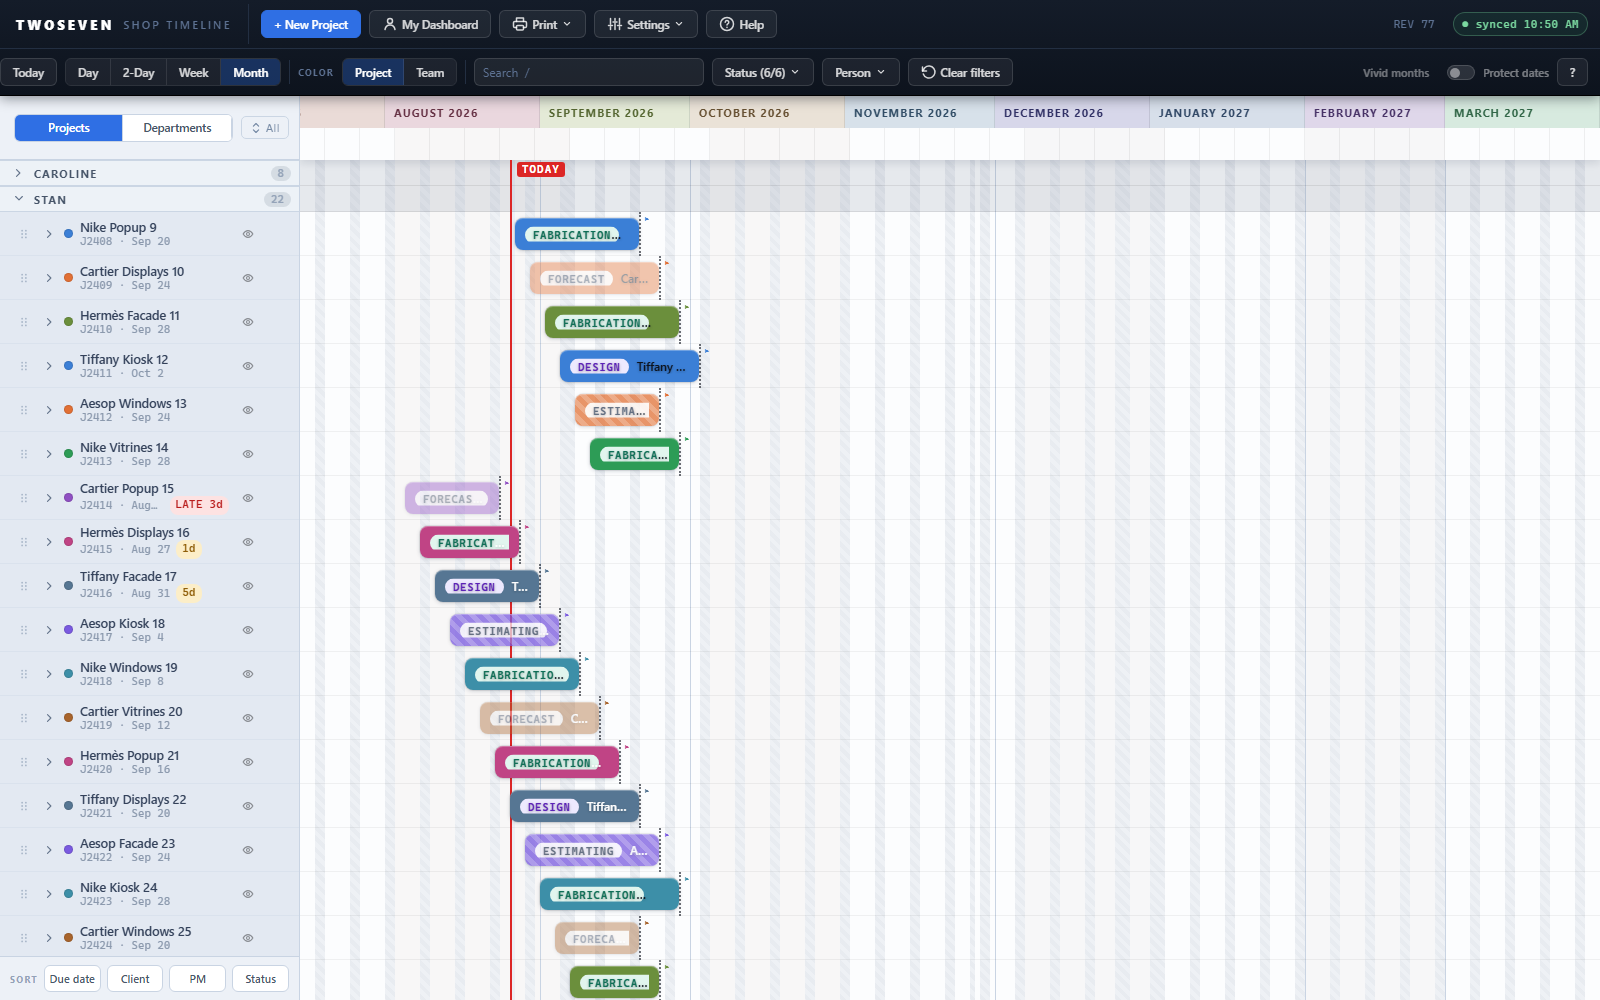
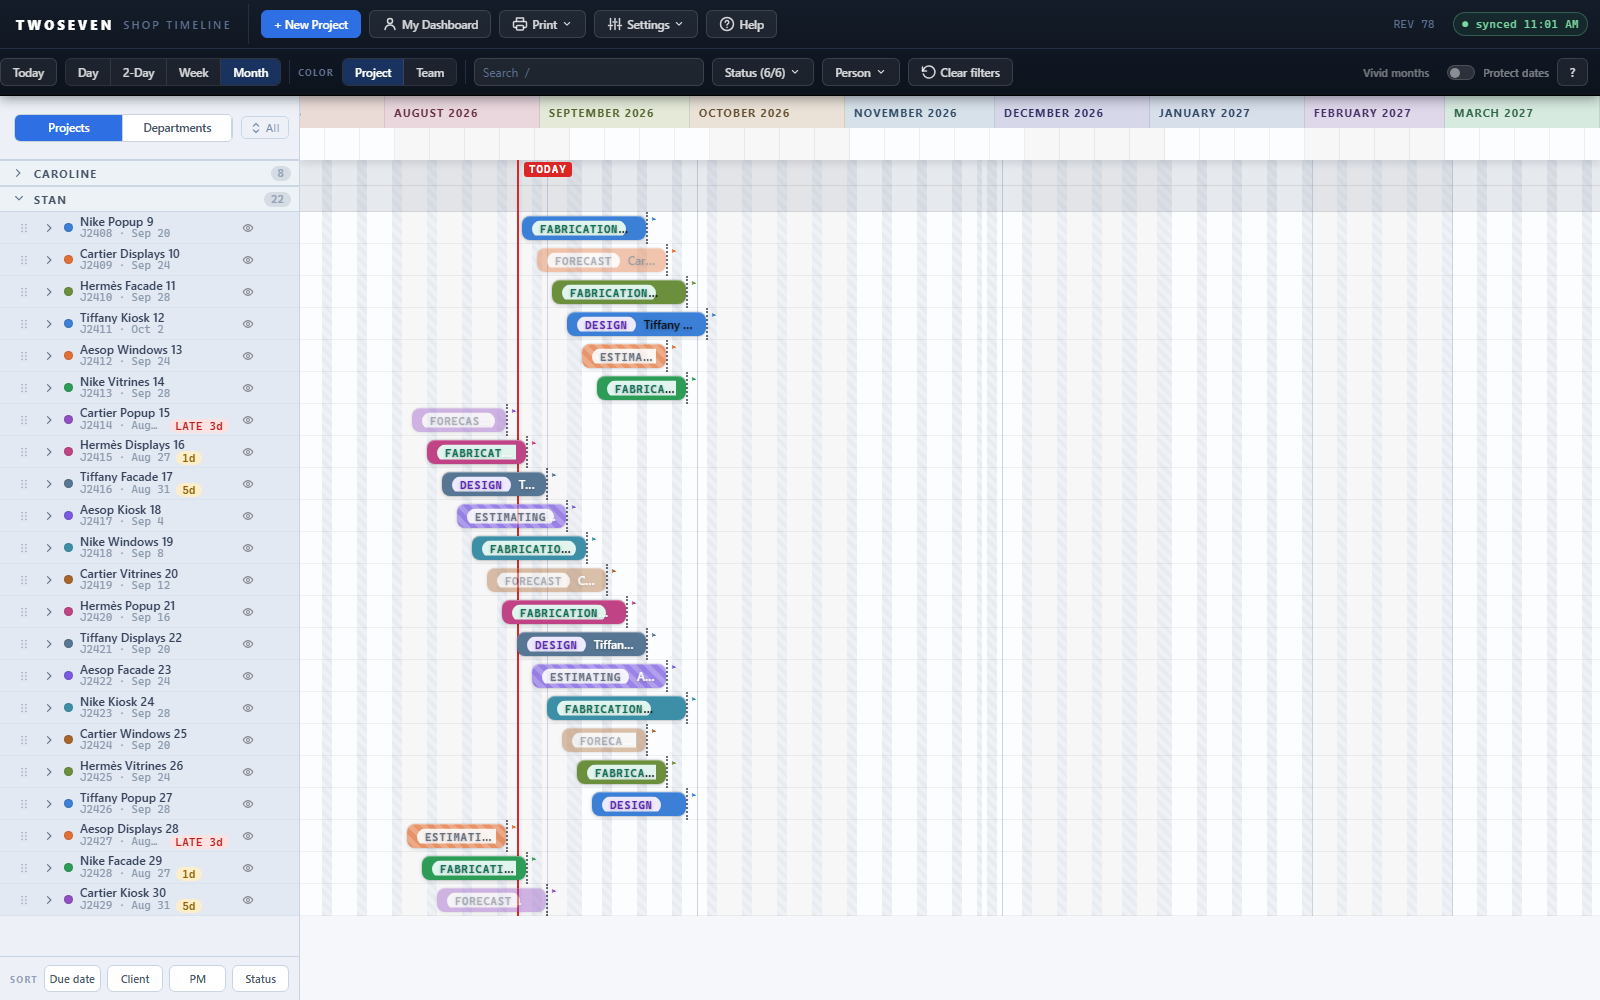
REV78: three density levels — Comfortable 56 / Snug 44 / Compact 32 (owner ruling)
Supersedes both the merged two-level 44/32 cut (REV77, PR #19) and the
interim 56/44 adjust. Comfortable keeps the pre-B5 default; the old
spec values become Snug (bar 32, gutter 12) and Compact (bar 24,
gutter 8 — still >=24px hit targets). The Settings item cycles the
three; DENSITIES drives the JS lane math and the body.snug/.compact
--row-h overrides. Design-Language §4 amended; TODO §7 entry settled
in place; test46 drifts all three levels; test-b5 walks the cycle;
Snug screenshot added.

Changed region(s): [[0.25, 0.155, 0.4688, 1.0], [0.0312, 0.217, 0.1562, 0.961]]

diff --git a/index.html b/index.html
@@ -19,11 +19,12 @@
   --r-s:5px; --r-m:8px; --r-l:14px;
   /* type scale — Design-Language §3; --fs-micro is decorative eyebrows ONLY */
   --fs-title:15px; --fs-body:13px; --fs-label:11.5px; --fs-fine:11px; --fs-micro:9px;
-  --row-h:56px; /* Comfortable row height — §4 (owner adjustment 2026-08-26: 56/44, not 44/32) */
+  --row-h:56px; /* Comfortable row height — §4 (three densities: 56/44/32, owner 2026-08-26) */
 }
-/* B5 density: Compact rows (§4). The token drives real geometry — the JS lane math
-   (rowH) mirrors it at both values; tests/test46.js asserts they stay in step. */
-body.compact{--row-h:44px}
+/* B5 density: Snug and Compact rows (§4). The token drives real geometry — the JS lane
+   math (rowH) mirrors it at every level; tests/test46.js asserts they stay in step. */
+body.snug{--row-h:44px}
+body.compact{--row-h:32px}
 /* ============ RESET ============ */
 *,*::before,*::after{box-sizing:border-box;margin:0;padding:0}
 html,body{height:100%;overflow:hidden;font-family:var(--sans);font-size:var(--fs-body);color:var(--txt);background:var(--paper)}
@@ -159,8 +160,12 @@ body.me-dock-on #me-dock{display:flex;flex-direction:column;position:fixed;left:
 .sb-chip{font-family:var(--mono);font-size:var(--fs-fine);font-weight:600;letter-spacing:.03em;padding:1.5px 6px;border-radius:8px;flex-shrink:0;line-height:1.5}
 .sb-chip.late{background:#FDE2E2;color:#B91C1C}
 .sb-chip.soon{background:#FCEEC8;color:#8F5E08}
-/* B5 Compact: the T5 two-line row keeps both lines, each single-line, tighter gap */
-body.compact .sb-2l{gap:0}
+/* B5 Snug/Compact: the T5 two-line row keeps both lines, each single-line; Compact's
+   32px rows also need tighter leading (nothing informational drops below 11px) */
+body.snug .sb-2l,body.compact .sb-2l{gap:0}
+body.compact .sb-2l .sb-name{font-size:12px;line-height:1.1}
+body.compact .sb-2l .sb-sub{line-height:1.1}
+body.compact .sb-chip{line-height:1.2;padding:.5px 6px}
 .sb-row.task-row{padding-left:32px;background:#F2F5FA}
 .sb-row.task-row .sb-name{font-weight:450;font-size:12px}
 .sb-row.dept-head{background:#D6DFEB;border-bottom:1px solid #C2CFDF;font-size:var(--fs-fine);font-weight:700;text-transform:uppercase;letter-spacing:.1em;color:#57687F;cursor:pointer}
@@ -1094,7 +1099,7 @@ body.vivid .cal-col.we{background:repeating-linear-gradient(45deg,rgba(100,116,1
       <div id="settings-menu" class="tb-menu hidden">
         <div class="sm-item" id="mi-people" title="Edit staff names, departments and time off">People &amp; Availability</div>
         <div class="sm-item" id="mi-clients" title="Edit the shared client list and job-code aliases">Clients</div>
-        <div class="sm-item" id="mi-density" title="Row height — Compact fits more of the schedule on one screen">Density: <b id="mi-density-v">Comfortable</b></div>
+        <div class="sm-item" id="mi-density" title="Row height — click to cycle Comfortable → Snug → Compact">Density: <b id="mi-density-v">Comfortable</b></div>
         <div class="sm-note">Shop Timeline · REV <span id="tb-rev-num"></span></div>
       </div>
     </div>
@@ -1326,25 +1331,26 @@ body.vivid .cal-col.we{background:repeating-linear-gradient(45deg,rgba(100,116,1
 <script src="msal-browser.min.js"></script>
 <script>
 'use strict';
-const APP_REV=77; // bump this ONE number on every release; used everywhere the rev shows up
+const APP_REV=78; // bump this ONE number on every release; used everywhere the rev shows up
 
 /* ===================== CONSTANTS ===================== */
 const SET_KEY ='shopTimelineSettings_v1';
 const PEOPLE_KEY='shopTimelinePeople_v1';
 const UI_KEY  ='shopTimelineUI_v1';
-/* B5 density (§4, owner-adjusted 2026-08-26): the JS lane math mirrors --row-h.
-   rowH(1)=BAR_PAD*2+BAR_H must equal the token at both densities — Comfortable 56
-   (the pre-B5 default: bar 32, gutter 24), Compact 44 (bar 32, gutter 12). The bar
-   itself never shrinks, so every hit target stays ≥24px for free.
-   tests/test46.js guards the drift both ways. */
-const BAR_H=32, LANE_G=6, HEAD_H=26, HDR_H=64;
-let BAR_PAD=12, DENSITY='comfortable';
+/* B5 density (§4, owner 2026-08-26): three levels. rowH(1)=BAR_PAD*2+BAR_H must equal
+   --row-h at every level — Comfortable 56 (the pre-B5 default: bar 32, gutter 24),
+   Snug 44 (bar 32, gutter 12), Compact 32 (bar 24, gutter 8 — still a ≥24px hit
+   target). tests/test46.js guards the drift at all three. */
+const DENSITIES={comfortable:{bar:32,pad:12,gap:6},snug:{bar:32,pad:6,gap:6},compact:{bar:24,pad:4,gap:4}};
+const HEAD_H=26, HDR_H=64;
+let BAR_H=32, BAR_PAD=12, LANE_G=6, DENSITY='comfortable';
 function applyDensity(d){
-  DENSITY=d==='compact'?'compact':'comfortable';
-  const c=DENSITY==='compact';
-  BAR_PAD=c?6:12;
-  document.body.classList.toggle('compact',c);
-  const v=document.getElementById('mi-density-v');if(v)v.textContent=c?'Compact':'Comfortable';
+  DENSITY=DENSITIES[d]?d:'comfortable';
+  const g=DENSITIES[DENSITY];
+  BAR_H=g.bar;BAR_PAD=g.pad;LANE_G=g.gap;
+  document.body.classList.toggle('snug',DENSITY==='snug');
+  document.body.classList.toggle('compact',DENSITY==='compact');
+  const v=document.getElementById('mi-density-v');if(v)v.textContent=DENSITY[0].toUpperCase()+DENSITY.slice(1);
 }
 let SIDE_W=300;
 /* B3 / §7 zoom steps, detail → overview. days and weeks keep their original px-per-day
@@ -7030,9 +7036,11 @@ document.getElementById('btn-dash').addEventListener('click',ev=>{
 document.getElementById('dash-menu').addEventListener('click',ev=>ev.stopPropagation());
 wireMenu('btn-print','print-menu');
 wireMenu('btn-settings','settings-menu');
-/* B5: the density toggle — geometry follows --row-h, persisted like every other UI pref */
+/* B5: the density toggle cycles the three levels — geometry follows --row-h,
+   persisted like every other UI pref */
 document.getElementById('mi-density').addEventListener('click',()=>{
-  applyDensity(DENSITY==='compact'?'comfortable':'compact');
+  const order=Object.keys(DENSITIES);
+  applyDensity(order[(order.indexOf(DENSITY)+1)%order.length]);
   saveUI();render();
 });
 wireMenu('btn-legend','legend-menu');

diff --git a/tests/test-b5.js b/tests/test-b5.js
@@ -1,6 +1,6 @@
-/* B5 / Design-Language §4: Compact density + group collapse.
-   - Density toggle (Settings menu) switches --row-h 44 ↔ 32; the JS lane math follows;
-     every hit target stays ≥24px; the choice persists in UI_KEY.
+/* B5 / Design-Language §4: density levels + group collapse.
+   - The Settings toggle cycles Comfortable 56 → Snug 44 → Compact 32 (--row-h); the
+     JS lane math follows; every hit target stays ≥24px; the choice persists in UI_KEY.
    - 30 projects fit one screen at Compact (the acceptance bar).
    - Clicking a grp-head collapses its group; collapsed sets persist in UI_KEY keyed
      by group mode and survive a reload.
@@ -40,31 +40,34 @@ const E=s=>win.eval(s);
 const click=el=>el&&el.dispatchEvent(new win.MouseEvent('click',{bubbles:true}));
 
 setTimeout(()=>{
-  sec('density — Comfortable boot matches §4 (owner-adjusted 56/44)');
+  sec('density — Comfortable boot is the pre-B5 default');
   ok('boot is Comfortable',E('DENSITY')==='comfortable');
-  ok('rowH(1) is 56 (the --row-h token, the pre-B5 default)',E('rowH(1)')===56,'rowH(1)='+E('rowH(1)'));
-  ok('body has no compact class',!doc.body.classList.contains('compact'));
+  ok('rowH(1) is 56 (the --row-h token)',E('rowH(1)')===56,'rowH(1)='+E('rowH(1)'));
+  ok('body has no density class',!doc.body.classList.contains('compact')&&!doc.body.classList.contains('snug'));
 
-  sec('the Settings toggle switches to Compact');
+  sec('the Settings toggle cycles Comfortable → Snug → Compact');
   click(doc.getElementById('mi-density'));
-  ok('DENSITY flips',E('DENSITY')==='compact');
+  ok('first click lands on Snug',E('DENSITY')==='snug');
   ok('rowH(1) is 44',E('rowH(1)')===44,'rowH(1)='+E('rowH(1)'));
-  ok('body carries .compact (CSS --row-h override)',doc.body.classList.contains('compact'));
+  ok('body carries .snug (CSS --row-h override)',doc.body.classList.contains('snug')&&!doc.body.classList.contains('compact'));
+  ok('Snug bars stay 32px',E('BAR_H')===32,'BAR_H='+E('BAR_H'));
+  click(doc.getElementById('mi-density'));
+  ok('second click lands on Compact',E('DENSITY')==='compact');
+  ok('rowH(1) is 32',E('rowH(1)')===32,'rowH(1)='+E('rowH(1)'));
+  ok('body swaps .snug for .compact',doc.body.classList.contains('compact')&&!doc.body.classList.contains('snug'));
   ok('the menu item label follows',doc.getElementById('mi-density-v').textContent==='Compact');
   ok('bars keep a ≥24px hit target (§4)',E('BAR_H')>=24,'BAR_H='+E('BAR_H'));
   const bar=doc.querySelector('.job-bar.summary');
   ok('a drawn bar is BAR_H tall',bar&&bar.style.height===E('BAR_H')+'px',bar&&bar.style.height);
   ok('edge grab zones keep their §6 width',E('edgeZone(100,9)')===9&&E('edgeZone(40,9)')>=8);
   const sbRow=doc.querySelector('#side-rows .sb-row.proj-head');
-  ok('sidebar rows are 44px',sbRow&&sbRow.style.height==='44px',sbRow&&sbRow.style.height);
+  ok('sidebar rows are 32px',sbRow&&sbRow.style.height==='32px',sbRow&&sbRow.style.height);
   ok('the two-line row keeps name and code·date',
      sbRow&&!!sbRow.querySelector('.sb-name')&&!!sbRow.querySelector('.sb-sub'));
 
-  sec('Compact fits more schedule — 30 projects at Month');
+  sec('acceptance — 30 projects fit one screen at Compact + Month');
   E("setView('month')");
-  /* Owner ruling 2026-08-26: densities are 56/44, so 30 uncollapsed rows are 1320px —
-     the brief's "one screen" line is superseded; group collapse is the big lever. */
-  ok('30 rows total 1320px (44px each, was 1680)',E('TOTAL_H')===1320,E('TOTAL_H')+'px');
+  ok('30 rows total ≤960px',E('TOTAL_H')<=960,E('TOTAL_H')+'px');
 
   sec('density persists in UI_KEY');
   let ui=JSON.parse(win.localStorage.getItem('shopTimelineUI_v1')||'{}');

diff --git a/tests/test46.js b/tests/test46.js
@@ -50,11 +50,14 @@ function run(){
        /applyDensity/.test(src)?/--row-h:56px/.test(src):/--row-h:44px/.test(src));
     ok('no informational font-size below 11px (C5)', !/font-size:(10|[0-9])(\.[0-9]+)?px/.test(src));
   }
-  if(/applyDensity/.test(src)){ /* B5 density (owner-adjusted 56/44) — skipped on pre-B5 builds */
-    ok('Compact override sets --row-h:44px', /body\.compact\{--row-h:44px\}/.test(src));
+  if(/applyDensity/.test(src)){ /* B5 density (three levels, owner 2026-08-26) — skipped on pre-B5 builds */
+    ok('Snug override sets --row-h:44px', /body\.snug\{--row-h:44px\}/.test(src));
+    ok('Compact override sets --row-h:32px', /body\.compact\{--row-h:32px\}/.test(src));
     ok('JS lane math mirrors --row-h at Comfortable (56)', E('rowH(1)')===56, 'rowH(1)='+E('rowH(1)'));
+    E("applyDensity('snug')");
+    ok('JS lane math mirrors --row-h at Snug (44)', E('rowH(1)')===44, 'rowH(1)='+E('rowH(1)'));
     E("applyDensity('compact')");
-    ok('JS lane math mirrors --row-h at Compact (44)', E('rowH(1)')===44, 'rowH(1)='+E('rowH(1)'));
+    ok('JS lane math mirrors --row-h at Compact (32)', E('rowH(1)')===32, 'rowH(1)='+E('rowH(1)'));
     ok('Compact bar keeps the ≥24px hit target (§4)', E('BAR_H')>=24, 'BAR_H='+E('BAR_H'));
     E("applyDensity('comfortable')");
   }

diff --git a/docs/Milestones/Phase 3/2026-08-26-b5-compact-density.md b/docs/Milestones/Phase 3/2026-08-26-b5-compact-density.md
@@ -1,25 +1,28 @@
-# Compact density + group collapse (finding B5, B6-part) — REV77
+# Density levels + group collapse (finding B5, B6-part) — REV77–78
 
-**Date:** 2026-08-26 · **App REV:** 77 · **Finding:** B5 (UX audit, "one density for
-every screen") + the missing collapse on REV44's group headers ·
-**Brief:** Phase 3 pack, V3 · **PR:** v3-compact-density → development
+**Date:** 2026-08-26 · **App REV:** 77 (PR #19) + 78 (PR #20) · **Finding:** B5 (UX
+audit, "one density for every screen") + the missing collapse on REV44's group headers ·
+**Brief:** Phase 3 pack, V3 · **PRs:** v3-compact-density → development (#19),
+v3b-density-levels → development (#20)
 
 ## What changed
 
-- **A density toggle** in the Settings menu: **Density: Comfortable / Compact**. One
-  click switches the whole timeline between 56px and 44px rows, and the choice is
-  remembered per browser like every other view preference. Comfortable is exactly the
-  layout everyone already knows; Compact fits about a quarter more schedule on the
-  same screen.
-- **The densities are 56/44, not the design language's original 44/32.** The first cut
-  of this change shipped §4's written numbers; the owner reviewed it and ruled them too
-  tight — Comfortable keeps the pre-B5 default (56px) and Compact takes the old 44px
-  value. §4 was amended in the same PR (the "follow the doc or update the doc" rule).
-  Bars stay 32px tall at both densities — only the breathing room around them tightens —
-  so every hit target keeps the ≥24px floor without shrinking anything grabbable.
+- **A density control** in the Settings menu, cycling **Comfortable → Snug → Compact**:
+  56px, 44px and 32px rows (token `--row-h`), remembered per browser like every other
+  view preference. Comfortable is exactly the layout everyone already knows; Snug
+  tightens the breathing room around unchanged 32px bars; Compact also drops the bars
+  to 24px — never below the design language's **24px minimum hit target**, so
+  edge-resize zones, grip dots, eyes and pencils all stay grabbable.
+- **The levels took two rulings to land** (both 2026-08-26): the first cut shipped
+  §4's written two-level 44/32 spec (REV77) — which also tightened Comfortable from
+  the de-facto 56px; the owner ruled that too tight and settled on three levels with
+  Comfortable keeping the pre-B5 default and the old spec values becoming Snug and
+  Compact (REV78). §4 was amended in the same PR (the "follow the doc or update the
+  doc" rule).
 - The `--row-h` token now drives real geometry: the JavaScript lane math mirrors it at
-  both values, and the geometry drift test asserts they stay in agreement at each
-  density. Sidebar grips, eyes and pencils also gained an explicit 24px minimum.
+  every level, and the geometry drift test asserts they stay in agreement at all three.
+- At Compact the sidebar's two-line rows keep both lines — project name over
+  code · date — with tighter leading; nothing informational drops below 11px.
 - **Group headers now collapse.** When the sidebar is grouped (by PM, client, or
   status), clicking a header — "Caroline · 8", say — folds her projects away behind
   the header; the chevron and count stay. Collapsed groups persist per grouping mode
@@ -31,28 +34,29 @@ every screen") + the missing collapse on REV44's group headers ·
 Stubbed-data captures (headless Chrome), 30 projects at Month zoom, 1600×1000:
 
 - [Comfortable — 56px rows, unchanged from REV76](screenshots/before-b5-rows.png)
-- [Compact — 44px rows](screenshots/after-b5-compact.png) (sidebar still two-line)
-- [Grouped by PM, "Caroline · 8" collapsed](screenshots/after-b5-collapsed.png)
+- [Snug — 44px rows](screenshots/after-b5-snug.png)
+- [Compact — 32px rows](screenshots/after-b5-compact.png) (sidebar still two-line; ~26 rows on screen)
+- [Grouped by PM, "Caroline · 8" collapsed](screenshots/after-b5-collapsed.png) — all 30 projects accounted for on one screen
 
 ## Why it mattered
 
 The audit's Theme B: PMs run the Monday meeting off this screen, and at one fixed
 density a busy season means scrolling mid-conversation. Zoom (REV75) compressed time;
-this compresses rows a notch, and group collapse folds whole books of work out of the
-way — that's the big lever for large seasons.
+density compresses rows — 30 projects come within one screen at Compact + Month — and
+group collapse folds whole books of work out of the way.
 
 ## Notes
 
 - No SharePoint, auth, or schema involvement — density and collapsed groups live in
   the browser's `UI_KEY` bundle alongside zoom and lens.
-- New suite `tests/test-b5.js` (25 checks: both densities' geometry, the ≥24px hit
-  floor, persistence, collapse/expand, per-mode keying, reload survival).
-  `tests/test46.js` gained the two-density drift assertions. Both skip on the frozen
-  REV50 reference.
+- New suite `tests/test-b5.js` (density cycle across all three levels, the ≥24px hit
+  floor, one-screen acceptance, persistence, collapse/expand, per-mode keying, reload
+  survival). `tests/test46.js` gained the three-density drift assertions. Both skip
+  on the frozen REV50 reference.
 - Known ceilings / follow-ups (mirrored in `docs/TODO.md` §7):
-  - The brief's acceptance line "30 projects fit one screen at Compact" was written
-    against the 44/32 tokens and is superseded by the owner's 56/44 ruling — 30
-    uncollapsed Compact rows are 1320px. Group collapse and filters carry that load.
+  - 30 *uncollapsed* Compact rows are 960px — borderline one screen on a 1080p laptop
+    with the toolbar; a collapsed group or a filter gives the slack. §4's 32px row and
+    24px hit floor win over squeezing further.
   - The sidebar's ⇕ All button still only expands/collapses project phase rows and
     department sections — it doesn't fold group headers. Add if PMs ask for
     "collapse all groups".

diff --git a/docs/TODO.md b/docs/TODO.md
@@ -371,13 +371,12 @@ own "only if it proves needed" gates.
 - [ ] Very short projects (< ~2 weeks) render pill-only at Week zoom — intended per
       Design-Language §7 anatomy thresholds (px constants `BAR_W_*`). Gate: real
       complaints about lost labels. (REV75)
-- [ ] The V3 acceptance line "30 projects fit one screen at Compact + Month" —
-      SUPERSEDED (owner, 2026-08-26): the first cut shipped §4's written 44/32 tokens
-      (30×32 = 960px, borderline one screen); the owner ruled that too tight and reset
-      the densities to 56 (the pre-B5 default) / 44, amending §4. 30 uncollapsed
-      Compact rows are now 1320px — group collapse and filters are the levers for big
-      seasons, not row height. Revisit only if an even-denser third step is asked for.
-      (REV77)
+- [x] The V3 density tokens — settled by owner ruling, 2026-08-26: the first cut
+      shipped §4's written two-level 44/32 (REV77, PR #19); the owner ruled Comfortable
+      too tight, briefly reset to 56/44, then settled on **three levels — Comfortable 56
+      (the pre-B5 default) / Snug 44 / Compact 32** (REV78, PR #20), amending §4. The
+      brief's "30 projects fit one screen" acceptance holds at Compact (30×32 = 960px,
+      borderline on a 1080p laptop; a collapsed group or filter gives slack). (REV78)
 - [ ] The sidebar ⇕ All button doesn't fold the sort-group headers (PM/client/status) —
       it still only toggles project phase rows and department sections. Add "collapse
       all groups" if PMs ask for it. (REV77)

diff --git a/docs/Design-Language.md b/docs/Design-Language.md
@@ -114,7 +114,7 @@ Rule: nothing informational below 11px. The current 8.5–10px toolbar/mini labe
 - **Spacing unit 4px.** Gaps and paddings are multiples: 4/8/12/16/24. (Most of the app is already close; drift no further.)
 - **Radii:** keep tokens `--r-s 5px` (chips, pills), `--r-m 8px` (buttons, inputs, bars), `--r-l 14px` (overlays, cards). Bars use `--r-m` ends.
 - **Hairlines** for structure (1px, `--side-line` on light / `--chrome-line` on dark); **shadows only for things that float** (menus, overlays, drag ghosts): `0 4px 18px rgba(13,19,29,.18)`. Nothing at rest casts a shadow except the toolbar.
-- **Row heights:** Comfortable 56px / Compact 44px (token `--row-h`) — bars stay 32px tall at both, only the gutter tightens (24px → 12px). *Owner adjustment 2026-08-26 (REV77): the original 44/32 spec read too tight in practice — Comfortable keeps the pre-B5 default, Compact takes the old 44 value.* All hit targets ≥ 24px even in Compact.
+- **Row heights:** three densities — **Comfortable 56px / Snug 44px / Compact 32px** (token `--row-h`). Bars stay 32px tall at Comfortable and Snug (only the gutter tightens, 24px → 12px); Compact drops the bar to 24px (gutter 8px). *Owner ruling 2026-08-26 (REV78, superseding both the original 44/32 spec and the interim 56/44): Comfortable keeps the pre-B5 default, the old spec values become Snug and Compact.* All hit targets ≥ 24px even in Compact.
 
 ---
 
